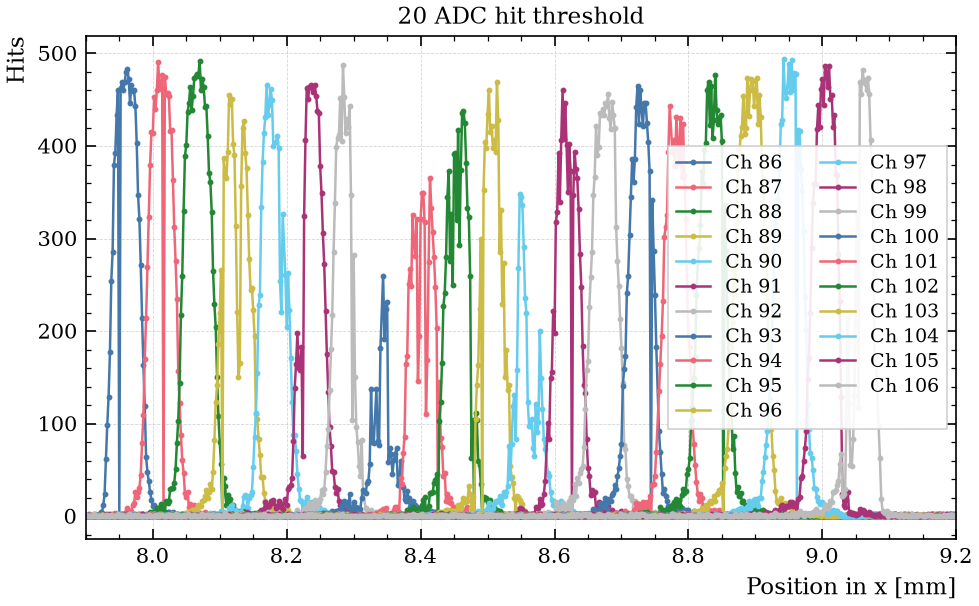
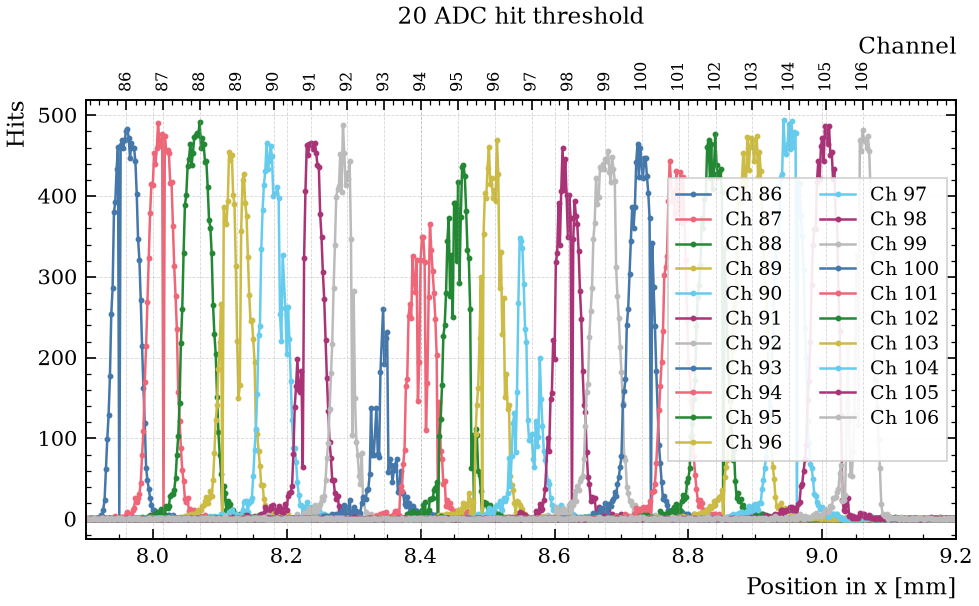
ana

Changed region(s): [[0.0, 0.0594, 0.9806, 0.8911], [0.0, 0.0594, 0.1226, 0.1485]]

diff --git a/x-scan.py b/x-scan.py
@@ -9,14 +9,18 @@ import matplotlib.pyplot as plt
 import matplotlib.ticker as tck
 import pandas as pd
 import numpy as np
+import warnings
+from scipy.optimize import curve_fit
+from scipy.optimize import OptimizeWarning
 
-from base_analysis import BaseAnalysis
+from base_analysis import BaseAnalysis, isdir
+from fits import box_gaussian
 
 ADC_CLEAN = "adc_clean"   # per run and channel: value = mean ADC, error = its standard error
 CHANNEL_HITS = "channel_hits" # averaged over run per channel: value = hit counts, error = None
 
 
-class AdcVsChannel(BaseAnalysis):
+class XScan(BaseAnalysis):
     CACHE_TAG = "adc_vs_channel"
     CACHE_VERSION = 1   # 2: channel_hits added, stored with a channel column
     QUANTITIES = (ADC_CLEAN,CHANNEL_HITS,)
@@ -36,6 +40,9 @@ class AdcVsChannel(BaseAnalysis):
 
     # Contains the data per position basically
     def plot(self) -> None:
+        # Define subdirs
+        fitdir = isdir(self.plotdir / "fits")
+
         # ADC MEAN PER CHANNEL
         d = self.get(ADC_CLEAN)
         # Average over the runs for each channel
@@ -84,6 +91,44 @@ class AdcVsChannel(BaseAnalysis):
         fig.savefig(self.plotdir / "hits_map.png", dpi=150)
         plt.close(fig)
 
+        # Get the channel to position mapping
+        # This is a rough estimation. The fits give better positions
+        ch_to_x = {ch: hits.index[np.argmax(hits[ch].to_numpy())] for ch in active}
+        for ch in active:
+            # Fit a box-gaussian and find the mean value. If the fit don't
+            # meet conditions, move to next channel.
+            # Conditions are: ...
+            s = hits[ch].sort_index()
+            x = s.index.to_numpy(dtype=float)
+            y = s.to_numpy(dtype=float)
+            above_x = x[y > y.max() / 2]
+            w0 = above_x.max() - above_x.min() if above_x.size > 1 else self.cfg.pitch / 2
+            x0 = x[np.argmax(y)]  # peak position in mm
+            # Last parameter (offset) starts at the baseline
+            p0 = [y.max(), x0, w0, max(w0 / 10, np.diff(x).min()), y.min()]
+            try:
+                with warnings.catch_warnings():
+                    warnings.simplefilter("error", RuntimeWarning)
+                    warnings.simplefilter("error", OptimizeWarning)
+                    popt, pcov = curve_fit(box_gaussian, x, y, p0=p0)
+                fig, ax = plt.subplots(1, 1)
+                xr = np.linspace(x.min(), x.max(), 1000)
+                ax.plot(x, y)
+                ax.plot(xr, box_gaussian(xr, *popt))
+                fig.savefig(fitdir / f"channel_{ch}_box_gaussian_fit.png", dpi=150)
+            except (RuntimeError, RuntimeWarning, OptimizeWarning, ValueError) as err:
+                print(f"Fit failed with {err}")
+                continue
+            # Check: is the fit good?
+            # Consider adding a more specific check here
+            if (abs(popt[0] - y.max()) < y.max()/10):
+                print(f"ch {ch}")
+                ch_to_x[ch] = popt[1]
+                # Now define the other channels with pitch
+                for ch2 in active:
+                    ch_to_x[ch2] = popt[1] + self.cfg.pitch * (ch2 - ch)
+                break
+
         fig, ax = plt.subplots(1, 1)
         for ch in active:
             ax.plot(hits.index, hits[ch], "-o", ms=2, label=f"Ch {int(ch)}")
@@ -93,9 +138,20 @@ class AdcVsChannel(BaseAnalysis):
         ax.set_ylabel("Hits")
         ax.set_title(f"{self.cfg.hit_threshold} ADC hit threshold")
         ax.set_xlim(7.9, 9.2)
+
+        # Second x-axis on top, with channel numbers at their peak positions
+        ax_top = ax.twiny()
+        ax_top.set_xlim(ax.get_xlim())  # must match the bottom axis
+        # Keep only channels whose peak falls inside the visible range
+        visible = [(ch, x) for ch, x in ch_to_x.items() if 7.9 <= x <= 9.2]
+        ax_top.set_xticks([x for _, x in visible])
+        ax_top.set_xticklabels([str(int(ch)) for ch, _ in visible])
+        ax_top.tick_params(axis="x", labelrotation=90, labelsize="x-small")
+        ax_top.set_xlabel("Channel")
+
         fig.savefig(self.plotdir / "hits_vs_x.png", dpi=150)
         plt.close(fig)
 
 
 if __name__ == "__main__":
-    AdcVsChannel().run()
+    XScan().run()

diff --git a/base_analysis.py b/base_analysis.py
@@ -60,6 +60,7 @@ class BaseAnalysis(ABC):
         "pipeline": ["subtract_pedestals", "remove_empty", "common_mode", "time_cut", "channel_cut"],
         "empty_channels": [0, 63, 64, 127, 128, 191, 192, 256],
         "allowance": 5,
+        "pitch": 0.055,
         "chmin": 0,
         "chmax": 256,
         "time_threshold": 18,   # ADC threshold of the delay search

diff --git a/fits.py b/fits.py
@@ -1,0 +1,6 @@
+import numpy as np
+from scipy.special import erf
+
+def box_gaussian(x, A, x0, w, sigma, c):
+    s = np.sqrt(2) * sigma
+    return 0.5 * A * (erf((x - x0 + w/2) / s) - erf((x - x0 - w/2) / s)) + c
